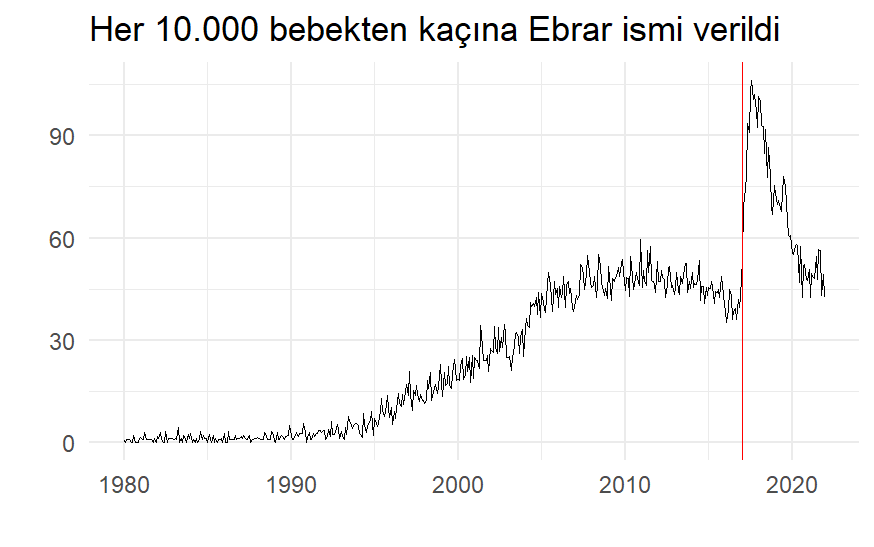
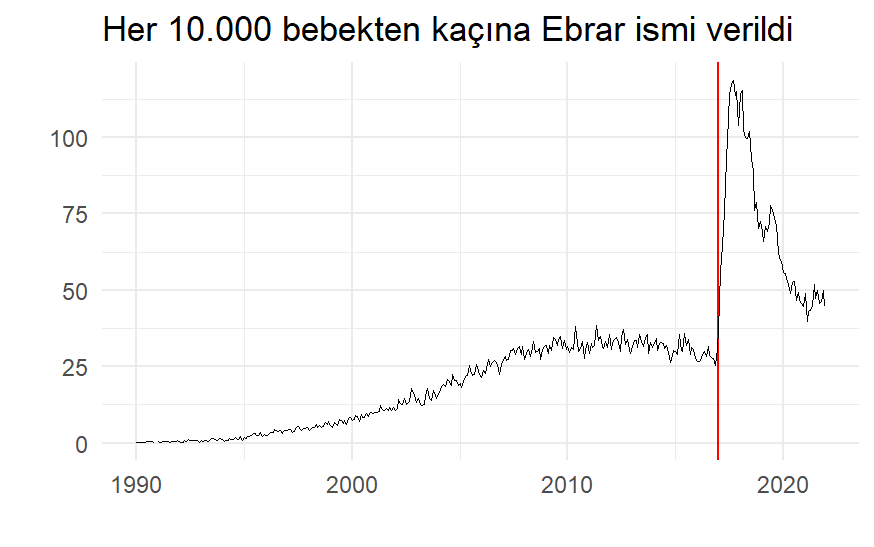
fix plots

diff --git a/isimler/ebrar/index.html b/isimler/ebrar/index.html
@@ -3,7 +3,7 @@ Ebrar, Nişanyan Adlar Sözlüğü&rsquo;ne göre anlamı Arapça&rsquo;da &ldqu
 <link rel=icon href=//www.herdagdelen.com/favicon.ico><link rel=icon type=image/png sizes=16x16 href=//www.herdagdelen.com/favicon-16x16.png><link rel=icon type=image/png sizes=32x32 href=//www.herdagdelen.com/favicon-32x32.png><link rel=apple-touch-icon href=//www.herdagdelen.com/apple-touch-icon.png><link rel=mask-icon href=//www.herdagdelen.com/safari-pinned-tab.svg><meta name=theme-color content="#2e2e33"><meta name=msapplication-TileColor content="#2e2e33"><noscript><style>#theme-toggle,.top-link{display:none}</style><style>@media(prefers-color-scheme:dark){:root{--theme:rgb(29, 30, 32);--entry:rgb(46, 46, 51);--primary:rgb(218, 218, 219);--secondary:rgb(155, 156, 157);--tertiary:rgb(65, 66, 68);--content:rgb(196, 196, 197);--hljs-bg:rgb(46, 46, 51);--code-bg:rgb(55, 56, 62);--border:rgb(51, 51, 51)}.list{background:var(--theme)}.list:not(.dark)::-webkit-scrollbar-track{background:0 0}.list:not(.dark)::-webkit-scrollbar-thumb{border-color:var(--theme)}}</style></noscript><script async src="https://www.googletagmanager.com/gtag/js?id=G-KNZ8N9W1RR"></script>
 <script>var doNotTrack=!1;if(!doNotTrack){window.dataLayer=window.dataLayer||[];function gtag(){dataLayer.push(arguments)}gtag("js",new Date),gtag("config","G-KNZ8N9W1RR",{anonymize_ip:!1})}</script><meta property="og:title" content="Ebrar"><meta property="og:description" content="Ebrar Karakurt, 2000 doğumlu ve Türkiye kadın millî voleybol takımı oyuncusu şampiyon bir sporcu. Ebrar&rsquo;ın ismi ilgimi çekti. Ebrar ismiyle ilgili neler bulabilirim, acaba 2017&rsquo;den beri Türk milli takımının Dünya ve Avrupa şampiyonluklarında pay sahibi olmuş Ebrar&rsquo;ın ismini yeni doğan bebeklerine verenler farkedilecek kadar çok mudur, cevaplamak istedim.
 Ebrar, Nişanyan Adlar Sözlüğü&rsquo;ne göre anlamı Arapça&rsquo;da &ldquo;iyilik edenler, hayırlılar&rdquo; olan, Kuran kaynaklı bir isim1. 2022 yılı verilerine göre bugüne kadar Türkiye&rsquo;de yaklaşık 100."><meta property="og:type" content="article"><meta property="og:url" content="//www.herdagdelen.com/isimler/ebrar/"><meta property="article:section" content="İsimler"><meta property="article:published_time" content="2023-09-02T22:15:58+03:00"><meta property="article:modified_time" content="2023-09-02T22:15:58+03:00"><meta property="og:site_name" content="Amaç Herdağdelen"><meta name=twitter:card content="summary"><meta name=twitter:title content="Ebrar"><meta name=twitter:description content="Ebrar Karakurt, 2000 doğumlu ve Türkiye kadın millî voleybol takımı oyuncusu şampiyon bir sporcu. Ebrar&rsquo;ın ismi ilgimi çekti. Ebrar ismiyle ilgili neler bulabilirim, acaba 2017&rsquo;den beri Türk milli takımının Dünya ve Avrupa şampiyonluklarında pay sahibi olmuş Ebrar&rsquo;ın ismini yeni doğan bebeklerine verenler farkedilecek kadar çok mudur, cevaplamak istedim.
-Ebrar, Nişanyan Adlar Sözlüğü&rsquo;ne göre anlamı Arapça&rsquo;da &ldquo;iyilik edenler, hayırlılar&rdquo; olan, Kuran kaynaklı bir isim1. 2022 yılı verilerine göre bugüne kadar Türkiye&rsquo;de yaklaşık 100."><script type=application/ld+json>{"@context":"https://schema.org","@type":"BreadcrumbList","itemListElement":[{"@type":"ListItem","position":2,"name":"İsimler","item":"//www.herdagdelen.com/isimler/"},{"@type":"ListItem","position":3,"name":"Ebrar","item":"//www.herdagdelen.com/isimler/ebrar/"}]}</script><script type=application/ld+json>{"@context":"https://schema.org","@type":"BlogPosting","headline":"Ebrar","name":"Ebrar","description":"Ebrar Karakurt, 2000 doğumlu ve Türkiye kadın millî voleybol takımı oyuncusu şampiyon bir sporcu. Ebrar\u0026rsquo;ın ismi ilgimi çekti. Ebrar ismiyle ilgili neler bulabilirim, acaba 2017\u0026rsquo;den beri Türk milli takımının Dünya ve Avrupa şampiyonluklarında pay sahibi olmuş Ebrar\u0026rsquo;ın ismini yeni doğan bebeklerine verenler farkedilecek kadar çok mudur, cevaplamak istedim.\nEbrar, Nişanyan Adlar Sözlüğü\u0026rsquo;ne göre anlamı Arapça\u0026rsquo;da \u0026ldquo;iyilik edenler, hayırlılar\u0026rdquo; olan, Kuran kaynaklı bir isim1. 2022 yılı verilerine göre bugüne kadar Türkiye\u0026rsquo;de yaklaşık 100.","keywords":[],"articleBody":"Ebrar Karakurt, 2000 doğumlu ve Türkiye kadın millî voleybol takımı oyuncusu şampiyon bir sporcu. Ebrar’ın ismi ilgimi çekti. Ebrar ismiyle ilgili neler bulabilirim, acaba 2017’den beri Türk milli takımının Dünya ve Avrupa şampiyonluklarında pay sahibi olmuş Ebrar’ın ismini yeni doğan bebeklerine verenler farkedilecek kadar çok mudur, cevaplamak istedim.\nEbrar, Nişanyan Adlar Sözlüğü’ne göre anlamı Arapça’da “iyilik edenler, hayırlılar” olan, Kuran kaynaklı bir isim1. 2022 yılı verilerine göre bugüne kadar Türkiye’de yaklaşık 100.000 bebeğe Ebrar ismi verilmiş. Bunların büyük bir kısmı kız bebekmiş. Yine Nişanyan’a göre Konya, nüfusa oranlı olarak görülme sıklığının en yüksek olduğu il.\nEbrar’ın 1980’lerde tek tük örneklerini gördüğümüz kullanımı 90’larda hız kazanmış ve 2000’lerde giderek artmış. 2007-2017 arası istikrarlı bir kullanım sıklığına kavuştuktan sonra 2017’de patlama yaparak yeni doğanlara en çok verilen isimler listesine 5. sıradan giriş yapmış2.\nAşağıdaki grafikte Ebrar isminin her 10.000 bebekte verilme sıklığını görüyoruz. Kırmızı çizgi Ocak 2017 tarihine denk düşüyor. Ebrar’ın kullanım sıklığı bir aydan diğerine neredeyse iki kat artmış.\nBöyle ani bir yükseliş bana Ebrar’ın 2017-2020 yılları arasında daha da popülerleşmesinde dış bir etkenin rol oynadığını düşündürttü. Bu etkenin ne olduğuna dair ilk ipucu Google Trends’den geldi: Ebrar’ın aranma sıklığına baktığımda Aralık 2016’da insanların Ebrar ismine ilgisinin artmaya başladığını gördüm.\nGoogle Trends, aynı tarihlerde “Ebrar Alya Demirbilek” aramalarının da popülerleştiğini gösterdi. Kısa bir araştırmayla gizem çözüldü: Aralık 2016’da yayına başlayan “Çocuktan Al Haberi” isimli programın çocuk oyuncularından birisi 2013 doğumlu Ebrar Alya Demirbilek’ti. Ebrar Alya’nın doğrudan ya da dolaylı olarak 2017-2020 yılları arasında 15.000’den fazla bebeğin ismine ilham verdiğini tahmin ediyorum.\nEbrar Alya etkisinin tesadüf olmadığına dair inancımı güçlendiren diğer bir gözlem Alya isminin de 2017’de benzer bir artış göstermesi.\nAncak veri Ebrar Alya etkisinin çok uzun süreli olmayacağını düşündürtüyor: 2020’ye geldiğimizde Ebrar isminin verilme sıklığı Çocuktan Al Haberi öncesi değerlerine dönmüş bile. Alya’da ise benzer bir düşüş gözlemiyoruz. Henüz Ebrar Karakurt’un bebek isimlerine farkedilir bir etkisi olmamış.\nhttps://www.nisanyanadlar.com/isim/ebrar ↩\nhttps://www.aa.com.tr/tr/turkiye/2017de-en-cok-tercih-edilen-cocuk-isimleri/1019125 ↩\n","wordCount":"309","inLanguage":"en","datePublished":"2023-09-02T22:15:58+03:00","dateModified":"2023-09-02T22:15:58+03:00","author":{"@type":"Person","name":"Amaç Herdağdelen"},"mainEntityOfPage":{"@type":"WebPage","@id":"//www.herdagdelen.com/isimler/ebrar/"},"publisher":{"@type":"Organization","name":"","logo":{"@type":"ImageObject","url":"//www.herdagdelen.com/favicon.ico"}}}</script><link rel=stylesheet href=https://cdnjs.cloudflare.com/ajax/libs/font-awesome/6.2.1/css/all.min.css integrity="sha512-MV7K8+y+gLIBoVD59lQIYicR65iaqukzvf/nwasF0nqhPay5w/9lJmVM2hMDcnK1OnMGCdVK+iQrJ7lzPJQd1w==" crossorigin=anonymous referrerpolicy=no-referrer></head><body id=top><script>localStorage.getItem("pref-theme")==="dark"?document.body.classList.add("dark"):localStorage.getItem("pref-theme")==="light"?document.body.classList.remove("dark"):window.matchMedia("(prefers-color-scheme: dark)").matches&&document.body.classList.add("dark")</script><header class=header><nav class=nav><div class=logo><div class=logo-switches><button id=theme-toggle accesskey=t title="(Alt + T)"><svg id="moon" xmlns="http://www.w3.org/2000/svg" width="24" height="18" viewBox="0 0 24 24" fill="none" stroke="currentcolor" stroke-width="2" stroke-linecap="round" stroke-linejoin="round"><path d="M21 12.79A9 9 0 1111.21 3 7 7 0 0021 12.79z"/></svg><svg id="sun" xmlns="http://www.w3.org/2000/svg" width="24" height="18" viewBox="0 0 24 24" fill="none" stroke="currentcolor" stroke-width="2" stroke-linecap="round" stroke-linejoin="round"><circle cx="12" cy="12" r="5"/><line x1="12" y1="1" x2="12" y2="3"/><line x1="12" y1="21" x2="12" y2="23"/><line x1="4.22" y1="4.22" x2="5.64" y2="5.64"/><line x1="18.36" y1="18.36" x2="19.78" y2="19.78"/><line x1="1" y1="12" x2="3" y2="12"/><line x1="21" y1="12" x2="23" y2="12"/><line x1="4.22" y1="19.78" x2="5.64" y2="18.36"/><line x1="18.36" y1="5.64" x2="19.78" y2="4.22"/></svg></button></div></div><ul id=menu><li><a href=//www.herdagdelen.com/ title=home><span>home</span></a></li><li><a href=//www.herdagdelen.com/isimler/ title=isimler><span>isimler</span></a></li></ul></nav></header><main class=main><article class=post-single><header class=post-header><div class=breadcrumbs><a href=//www.herdagdelen.com>Home</a>&nbsp;»&nbsp;<a href=//www.herdagdelen.com/isimler/>İsimler</a></div><h1 class=post-title>Ebrar</h1><div class=post-meta><span title='2023-09-02 22:15:58 +0300 +03'>September 2, 2023</span>&nbsp;·&nbsp;Amaç Herdağdelen</div></header><div class=post-content><p>Ebrar Karakurt, 2000 doğumlu ve Türkiye kadın millî voleybol takımı oyuncusu şampiyon bir sporcu. Ebrar&rsquo;ın ismi ilgimi çekti. Ebrar ismiyle ilgili neler bulabilirim, acaba 2017&rsquo;den beri Türk milli takımının Dünya ve Avrupa şampiyonluklarında pay sahibi olmuş Ebrar&rsquo;ın ismini yeni doğan bebeklerine verenler farkedilecek kadar çok mudur, cevaplamak istedim.</p><p>Ebrar, Nişanyan Adlar Sözlüğü&rsquo;ne göre anlamı Arapça&rsquo;da &ldquo;iyilik edenler, hayırlılar&rdquo; olan, Kuran kaynaklı bir isim<sup id=fnref:1><a href=#fn:1 class=footnote-ref role=doc-noteref>1</a></sup>. 2022 yılı verilerine göre bugüne kadar Türkiye&rsquo;de yaklaşık 100.000 bebeğe Ebrar ismi verilmiş. Bunların büyük bir kısmı kız bebekmiş. Yine Nişanyan&rsquo;a göre Konya, nüfusa oranlı olarak görülme sıklığının en yüksek olduğu il.</p><p>Ebrar&rsquo;ın 1980&rsquo;lerde tek tük örneklerini gördüğümüz kullanımı 90&rsquo;larda hız kazanmış ve 2000&rsquo;lerde giderek artmış. 2007-2017 arası istikrarlı bir kullanım sıklığına kavuştuktan sonra 2017&rsquo;de patlama yaparak yeni doğanlara en çok verilen isimler listesine 5. sıradan giriş yapmış<sup id=fnref:2><a href=#fn:2 class=footnote-ref role=doc-noteref>2</a></sup>.</p><p>Aşağıdaki grafikte Ebrar isminin her 10.000 bebekte verilme sıklığını görüyoruz. Kırmızı çizgi Ocak 2017 tarihine denk düşüyor. Ebrar&rsquo;ın kullanım sıklığı bir aydan diğerine neredeyse iki kat artmış.</p><p><img loading=lazy src=/images/ebrar1.png alt="Aylara göre Ebrar isminin yeni doğanlara verilme sıklığı"></p><p>Böyle ani bir yükseliş bana Ebrar&rsquo;ın 2017-2020 yılları arasında daha da popülerleşmesinde dış bir etkenin rol oynadığını düşündürttü. Bu etkenin ne olduğuna dair ilk ipucu Google Trends&rsquo;den geldi: Ebrar&rsquo;ın aranma sıklığına baktığımda Aralık 2016&rsquo;da insanların Ebrar ismine ilgisinin artmaya başladığını gördüm.</p><p><img loading=lazy src=/images/ebrar2.png alt="Alt text"></p><p>Google Trends, aynı tarihlerde &ldquo;Ebrar Alya Demirbilek&rdquo; aramalarının da popülerleştiğini gösterdi. Kısa bir araştırmayla gizem çözüldü: Aralık 2016&rsquo;da yayına başlayan &ldquo;Çocuktan Al Haberi&rdquo; isimli programın çocuk oyuncularından birisi 2013 doğumlu Ebrar Alya Demirbilek&rsquo;ti. Ebrar Alya&rsquo;nın doğrudan ya da dolaylı olarak 2017-2020 yılları arasında 15.000&rsquo;den fazla bebeğin ismine ilham verdiğini tahmin ediyorum.</p><p>Ebrar Alya etkisinin tesadüf olmadığına dair inancımı güçlendiren diğer bir gözlem Alya isminin de 2017&rsquo;de benzer bir artış göstermesi.</p><p><img loading=lazy src=/images/ebrar3.png alt="Alt text"></p><p>Ancak veri Ebrar Alya etkisinin çok uzun süreli olmayacağını düşündürtüyor: 2020&rsquo;ye geldiğimizde Ebrar isminin verilme sıklığı Çocuktan Al Haberi öncesi değerlerine dönmüş bile. Alya&rsquo;da ise benzer bir düşüş gözlemiyoruz. Henüz Ebrar Karakurt&rsquo;un bebek isimlerine farkedilir bir etkisi olmamış.</p><div class=footnotes role=doc-endnotes><hr><ol><li id=fn:1><p><a href=https://www.nisanyanadlar.com/isim/ebrar>https://www.nisanyanadlar.com/isim/ebrar</a>&#160;<a href=#fnref:1 class=footnote-backref role=doc-backlink>&#8617;&#xfe0e;</a></p></li><li id=fn:2><p><a href=https://www.aa.com.tr/tr/turkiye/2017de-en-cok-tercih-edilen-cocuk-isimleri/1019125>https://www.aa.com.tr/tr/turkiye/2017de-en-cok-tercih-edilen-cocuk-isimleri/1019125</a>&#160;<a href=#fnref:2 class=footnote-backref role=doc-backlink>&#8617;&#xfe0e;</a></p></li></ol></div></div><footer class=post-footer><ul class=post-tags></ul><div class=share-buttons><a target=_blank rel="noopener noreferrer" aria-label="share Ebrar on twitter" href="https://twitter.com/intent/tweet/?text=Ebrar&amp;url=%2f%2fwww.herdagdelen.com%2fisimler%2febrar%2f&amp;hashtags="><svg viewBox="0 0 512 512" height="30" width="30" fill="currentcolor"><path d="M449.446.0C483.971.0 512 28.03 512 62.554v386.892C512 483.97 483.97 512 449.446 512H62.554c-34.524.0-62.554-28.03-62.554-62.554V62.554c0-34.524 28.029-62.554 62.554-62.554h386.892zM195.519 424.544c135.939.0 210.268-112.643 210.268-210.268.0-3.218.0-6.437-.153-9.502 14.406-10.421 26.973-23.448 36.935-38.314-13.18 5.824-27.433 9.809-42.452 11.648 15.326-9.196 26.973-23.602 32.49-40.92-14.252 8.429-30.038 14.56-46.896 17.931-13.487-14.406-32.644-23.295-53.946-23.295-40.767.0-73.87 33.104-73.87 73.87.0 5.824.613 11.494 1.992 16.858-61.456-3.065-115.862-32.49-152.337-77.241-6.284 10.881-9.962 23.601-9.962 37.088.0 25.594 13.027 48.276 32.95 61.456-12.107-.307-23.448-3.678-33.41-9.196v.92c0 35.862 25.441 65.594 59.311 72.49-6.13 1.686-12.72 2.606-19.464 2.606-4.751.0-9.348-.46-13.946-1.38 9.349 29.426 36.628 50.728 68.965 51.341-25.287 19.771-57.164 31.571-91.8 31.571-5.977.0-11.801-.306-17.625-1.073 32.337 21.15 71.264 33.41 112.95 33.41z"/></svg></a><a target=_blank rel="noopener noreferrer" aria-label="share Ebrar on linkedin" href="https://www.linkedin.com/shareArticle?mini=true&amp;url=%2f%2fwww.herdagdelen.com%2fisimler%2febrar%2f&amp;title=Ebrar&amp;summary=Ebrar&amp;source=%2f%2fwww.herdagdelen.com%2fisimler%2febrar%2f"><svg viewBox="0 0 512 512" height="30" width="30" fill="currentcolor"><path d="M449.446.0C483.971.0 512 28.03 512 62.554v386.892C512 483.97 483.97 512 449.446 512H62.554c-34.524.0-62.554-28.03-62.554-62.554V62.554c0-34.524 28.029-62.554 62.554-62.554h386.892zM160.461 423.278V197.561h-75.04v225.717h75.04zm270.539.0V293.839c0-69.333-37.018-101.586-86.381-101.586-39.804.0-57.634 21.891-67.617 37.266v-31.958h-75.021c.995 21.181.0 225.717.0 225.717h75.02V297.222c0-6.748.486-13.492 2.474-18.315 5.414-13.475 17.767-27.434 38.494-27.434 27.135.0 38.007 20.707 38.007 51.037v120.768H431zM123.448 88.722C97.774 88.722 81 105.601 81 127.724c0 21.658 16.264 39.002 41.455 39.002h.484c26.165.0 42.452-17.344 42.452-39.002-.485-22.092-16.241-38.954-41.943-39.002z"/></svg></a><a target=_blank rel="noopener noreferrer" aria-label="share Ebrar on reddit" href="https://reddit.com/submit?url=%2f%2fwww.herdagdelen.com%2fisimler%2febrar%2f&title=Ebrar"><svg viewBox="0 0 512 512" height="30" width="30" fill="currentcolor"><path d="M449.446.0C483.971.0 512 28.03 512 62.554v386.892C512 483.97 483.97 512 449.446 512H62.554c-34.524.0-62.554-28.03-62.554-62.554V62.554c0-34.524 28.029-62.554 62.554-62.554h386.892zM446 265.638c0-22.964-18.616-41.58-41.58-41.58-11.211.0-21.361 4.457-28.841 11.666-28.424-20.508-67.586-33.757-111.204-35.278l18.941-89.121 61.884 13.157c.756 15.734 13.642 28.29 29.56 28.29 16.407.0 29.706-13.299 29.706-29.701.0-16.403-13.299-29.702-29.706-29.702-11.666.0-21.657 6.792-26.515 16.578l-69.105-14.69c-1.922-.418-3.939-.042-5.585 1.036-1.658 1.073-2.811 2.761-3.224 4.686l-21.152 99.438c-44.258 1.228-84.046 14.494-112.837 35.232-7.468-7.164-17.589-11.591-28.757-11.591-22.965.0-41.585 18.616-41.585 41.58.0 16.896 10.095 31.41 24.568 37.918-.639 4.135-.99 8.328-.99 12.576.0 63.977 74.469 115.836 166.33 115.836s166.334-51.859 166.334-115.836c0-4.218-.347-8.387-.977-12.493 14.564-6.47 24.735-21.034 24.735-38.001zM326.526 373.831c-20.27 20.241-59.115 21.816-70.534 21.816-11.428.0-50.277-1.575-70.522-21.82-3.007-3.008-3.007-7.882.0-10.889 3.003-2.999 7.882-3.003 10.885.0 12.777 12.781 40.11 17.317 59.637 17.317 19.522.0 46.86-4.536 59.657-17.321 3.016-2.999 7.886-2.995 10.885.008 3.008 3.011 3.003 7.882-.008 10.889zm-5.23-48.781c-16.373.0-29.701-13.324-29.701-29.698.0-16.381 13.328-29.714 29.701-29.714 16.378.0 29.706 13.333 29.706 29.714.0 16.374-13.328 29.698-29.706 29.698zM160.91 295.348c0-16.381 13.328-29.71 29.714-29.71 16.369.0 29.689 13.329 29.689 29.71.0 16.373-13.32 29.693-29.689 29.693-16.386.0-29.714-13.32-29.714-29.693z"/></svg></a><a target=_blank rel="noopener noreferrer" aria-label="share Ebrar on facebook" href="https://facebook.com/sharer/sharer.php?u=%2f%2fwww.herdagdelen.com%2fisimler%2febrar%2f"><svg viewBox="0 0 512 512" height="30" width="30" fill="currentcolor"><path d="M449.446.0C483.971.0 512 28.03 512 62.554v386.892C512 483.97 483.97 512 449.446 512H342.978V319.085h66.6l12.672-82.621h-79.272v-53.617c0-22.603 11.073-44.636 46.58-44.636H425.6v-70.34s-32.71-5.582-63.982-5.582c-65.288.0-107.96 39.569-107.96 111.204v62.971h-72.573v82.621h72.573V512h-191.104c-34.524.0-62.554-28.03-62.554-62.554V62.554c0-34.524 28.029-62.554 62.554-62.554h386.892z"/></svg></a><a target=_blank rel="noopener noreferrer" aria-label="share Ebrar on whatsapp" href="https://api.whatsapp.com/send?text=Ebrar%20-%20%2f%2fwww.herdagdelen.com%2fisimler%2febrar%2f"><svg viewBox="0 0 512 512" height="30" width="30" fill="currentcolor"><path d="M449.446.0C483.971.0 512 28.03 512 62.554v386.892C512 483.97 483.97 512 449.446 512H62.554c-34.524.0-62.554-28.03-62.554-62.554V62.554c0-34.524 28.029-62.554 62.554-62.554h386.892zm-58.673 127.703c-33.842-33.881-78.847-52.548-126.798-52.568-98.799.0-179.21 80.405-179.249 179.234-.013 31.593 8.241 62.428 23.927 89.612l-25.429 92.884 95.021-24.925c26.181 14.28 55.659 21.807 85.658 21.816h.074c98.789.0 179.206-80.413 179.247-179.243.018-47.895-18.61-92.93-52.451-126.81zM263.976 403.485h-.06c-26.734-.01-52.954-7.193-75.828-20.767l-5.441-3.229-56.386 14.792 15.05-54.977-3.542-5.637c-14.913-23.72-22.791-51.136-22.779-79.287.033-82.142 66.867-148.971 149.046-148.971 39.793.014 77.199 15.531 105.329 43.692 28.128 28.16 43.609 65.592 43.594 105.4-.034 82.149-66.866 148.983-148.983 148.984zm81.721-111.581c-4.479-2.242-26.499-13.075-30.604-14.571-4.105-1.495-7.091-2.241-10.077 2.241-2.986 4.483-11.569 14.572-14.182 17.562-2.612 2.988-5.225 3.364-9.703 1.12-4.479-2.241-18.91-6.97-36.017-22.23C231.8 264.15 222.81 249.484 220.198 245s-.279-6.908 1.963-9.14c2.016-2.007 4.48-5.232 6.719-7.847 2.24-2.615 2.986-4.484 4.479-7.472 1.493-2.99.747-5.604-.374-7.846-1.119-2.241-10.077-24.288-13.809-33.256-3.635-8.733-7.327-7.55-10.077-7.688-2.609-.13-5.598-.158-8.583-.158-2.986.0-7.839 1.121-11.944 5.604-4.105 4.484-15.675 15.32-15.675 37.364.0 22.046 16.048 43.342 18.287 46.332 2.24 2.99 31.582 48.227 76.511 67.627 10.685 4.615 19.028 7.371 25.533 9.434 10.728 3.41 20.492 2.929 28.209 1.775 8.605-1.285 26.499-10.833 30.231-21.295 3.732-10.464 3.732-19.431 2.612-21.298-1.119-1.869-4.105-2.99-8.583-5.232z"/></svg></a><a target=_blank rel="noopener noreferrer" aria-label="share Ebrar on telegram" href="https://telegram.me/share/url?text=Ebrar&amp;url=%2f%2fwww.herdagdelen.com%2fisimler%2febrar%2f"><svg viewBox="2 2 28 28" height="30" width="30" fill="currentcolor"><path d="M26.49 29.86H5.5a3.37 3.37.0 01-2.47-1 3.35 3.35.0 01-1-2.47V5.48A3.36 3.36.0 013 3 3.37 3.37.0 015.5 2h21A3.38 3.38.0 0129 3a3.36 3.36.0 011 2.46V26.37a3.35 3.35.0 01-1 2.47 3.38 3.38.0 01-2.51 1.02zm-5.38-6.71a.79.79.0 00.85-.66L24.73 9.24a.55.55.0 00-.18-.46.62.62.0 00-.41-.17q-.08.0-16.53 6.11a.59.59.0 00-.41.59.57.57.0 00.43.52l4 1.24 1.61 4.83a.62.62.0 00.63.43.56.56.0 00.4-.17L16.54 20l4.09 3A.9.9.0 0021.11 23.15zM13.8 20.71l-1.21-4q8.72-5.55 8.78-5.55c.15.0.23.0.23.16a.18.18.0 010 .06s-2.51 2.3-7.52 6.8z"/></svg></a><a target=_blank rel="noopener noreferrer" aria-label="share Ebrar on ycombinator" href="https://news.ycombinator.com/submitlink?t=Ebrar&u=%2f%2fwww.herdagdelen.com%2fisimler%2febrar%2f"><svg width="30" height="30" viewBox="0 0 512 512" fill="currentcolor" xmlns:inkscape="http://www.inkscape.org/namespaces/inkscape"><path d="M449.446.0C483.971.0 512 28.03 512 62.554V449.446C512 483.97 483.97 512 449.446 512H62.554C28.03 512 0 483.97.0 449.446V62.554C0 28.03 28.029.0 62.554.0H449.446zM183.8767 87.9921h-62.034L230.6673 292.4508V424.0079h50.6655V292.4508L390.1575 87.9921H328.1233L256 238.2489z"/></svg></a></div></footer></article></main><footer class=footer><span>&copy; 2023 <a href=//www.herdagdelen.com></a></span>
+Ebrar, Nişanyan Adlar Sözlüğü&rsquo;ne göre anlamı Arapça&rsquo;da &ldquo;iyilik edenler, hayırlılar&rdquo; olan, Kuran kaynaklı bir isim1. 2022 yılı verilerine göre bugüne kadar Türkiye&rsquo;de yaklaşık 100."><script type=application/ld+json>{"@context":"https://schema.org","@type":"BreadcrumbList","itemListElement":[{"@type":"ListItem","position":2,"name":"İsimler","item":"//www.herdagdelen.com/isimler/"},{"@type":"ListItem","position":3,"name":"Ebrar","item":"//www.herdagdelen.com/isimler/ebrar/"}]}</script><script type=application/ld+json>{"@context":"https://schema.org","@type":"BlogPosting","headline":"Ebrar","name":"Ebrar","description":"Ebrar Karakurt, 2000 doğumlu ve Türkiye kadın millî voleybol takımı oyuncusu şampiyon bir sporcu. Ebrar\u0026rsquo;ın ismi ilgimi çekti. Ebrar ismiyle ilgili neler bulabilirim, acaba 2017\u0026rsquo;den beri Türk milli takımının Dünya ve Avrupa şampiyonluklarında pay sahibi olmuş Ebrar\u0026rsquo;ın ismini yeni doğan bebeklerine verenler farkedilecek kadar çok mudur, cevaplamak istedim.\nEbrar, Nişanyan Adlar Sözlüğü\u0026rsquo;ne göre anlamı Arapça\u0026rsquo;da \u0026ldquo;iyilik edenler, hayırlılar\u0026rdquo; olan, Kuran kaynaklı bir isim1. 2022 yılı verilerine göre bugüne kadar Türkiye\u0026rsquo;de yaklaşık 100.","keywords":[],"articleBody":"Ebrar Karakurt, 2000 doğumlu ve Türkiye kadın millî voleybol takımı oyuncusu şampiyon bir sporcu. Ebrar’ın ismi ilgimi çekti. Ebrar ismiyle ilgili neler bulabilirim, acaba 2017’den beri Türk milli takımının Dünya ve Avrupa şampiyonluklarında pay sahibi olmuş Ebrar’ın ismini yeni doğan bebeklerine verenler farkedilecek kadar çok mudur, cevaplamak istedim.\nEbrar, Nişanyan Adlar Sözlüğü’ne göre anlamı Arapça’da “iyilik edenler, hayırlılar” olan, Kuran kaynaklı bir isim1. 2022 yılı verilerine göre bugüne kadar Türkiye’de yaklaşık 100.000 bebeğe Ebrar ismi verilmiş. Bunların büyük bir kısmı kız bebekmiş. Yine Nişanyan’a göre Konya, nüfusa oranlı olarak görülme sıklığının en yüksek olduğu il.\nEbrar’ın 1980’lerde tek tük örneklerini gördüğümüz kullanımı 90’larda hız kazanmış ve 2000’lerde giderek artmış. 2007-2017 arası istikrarlı bir kullanım sıklığına kavuştuktan sonra 2017’de patlama yaparak yeni doğanlara en çok verilen isimler listesine 5. sıradan giriş yapmış2.\nAşağıdaki grafikte Ebrar isminin her 10.000 bebekte verilme sıklığını görüyoruz. Kırmızı çizgi Ocak 2017 tarihine denk düşüyor. Ebrar’ın kullanım sıklığı bir aydan diğerine dört kattan fazla artmış.\nBöyle ani bir yükseliş bana Ebrar’ın 2017-2020 yılları arasında daha da popülerleşmesinde dış bir etkenin rol oynadığını düşündürttü. Bu etkenin ne olduğuna dair ilk ipucu Google Trends’den geldi: Ebrar’ın aranma sıklığına baktığımda Aralık 2016’da insanların Ebrar ismine ilgisinin artmaya başladığını gördüm.\nGoogle Trends, aynı tarihlerde “Ebrar Alya Demirbilek” aramalarının da popülerleştiğini gösterdi. Kısa bir araştırmayla gizem çözüldü: Aralık 2016’da yayına başlayan “Çocuktan Al Haberi” isimli programın çocuk oyuncularından birisi 2013 doğumlu Ebrar Alya Demirbilek’ti. Ebrar Alya’nın doğrudan ya da dolaylı olarak 2017-2020 yılları arasında 15.000’den fazla bebeğin ismine ilham verdiğini tahmin ediyorum.\nEbrar Alya etkisinin tesadüf olmadığına dair inancımı güçlendiren diğer bir gözlem Alya isminin de 2017’de benzer bir artış göstermesi.\nAncak veri Ebrar Alya etkisinin çok uzun süreli olmayacağını düşündürtüyor: 2020’ye geldiğimizde Ebrar isminin verilme sıklığı Çocuktan Al Haberi öncesi değerlerine yaklaşmış. Alya’da ise benzer bir düşüş gözlemiyoruz. Henüz Ebrar Karakurt’un bebek isimlerine farkedilir bir etkisi olmamış.\nhttps://www.nisanyanadlar.com/isim/ebrar ↩\nhttps://www.aa.com.tr/tr/turkiye/2017de-en-cok-tercih-edilen-cocuk-isimleri/1019125 ↩\n","wordCount":"308","inLanguage":"en","datePublished":"2023-09-02T22:15:58+03:00","dateModified":"2023-09-02T22:15:58+03:00","author":{"@type":"Person","name":"Amaç Herdağdelen"},"mainEntityOfPage":{"@type":"WebPage","@id":"//www.herdagdelen.com/isimler/ebrar/"},"publisher":{"@type":"Organization","name":"","logo":{"@type":"ImageObject","url":"//www.herdagdelen.com/favicon.ico"}}}</script><link rel=stylesheet href=https://cdnjs.cloudflare.com/ajax/libs/font-awesome/6.2.1/css/all.min.css integrity="sha512-MV7K8+y+gLIBoVD59lQIYicR65iaqukzvf/nwasF0nqhPay5w/9lJmVM2hMDcnK1OnMGCdVK+iQrJ7lzPJQd1w==" crossorigin=anonymous referrerpolicy=no-referrer></head><body id=top><script>localStorage.getItem("pref-theme")==="dark"?document.body.classList.add("dark"):localStorage.getItem("pref-theme")==="light"?document.body.classList.remove("dark"):window.matchMedia("(prefers-color-scheme: dark)").matches&&document.body.classList.add("dark")</script><header class=header><nav class=nav><div class=logo><div class=logo-switches><button id=theme-toggle accesskey=t title="(Alt + T)"><svg id="moon" xmlns="http://www.w3.org/2000/svg" width="24" height="18" viewBox="0 0 24 24" fill="none" stroke="currentcolor" stroke-width="2" stroke-linecap="round" stroke-linejoin="round"><path d="M21 12.79A9 9 0 1111.21 3 7 7 0 0021 12.79z"/></svg><svg id="sun" xmlns="http://www.w3.org/2000/svg" width="24" height="18" viewBox="0 0 24 24" fill="none" stroke="currentcolor" stroke-width="2" stroke-linecap="round" stroke-linejoin="round"><circle cx="12" cy="12" r="5"/><line x1="12" y1="1" x2="12" y2="3"/><line x1="12" y1="21" x2="12" y2="23"/><line x1="4.22" y1="4.22" x2="5.64" y2="5.64"/><line x1="18.36" y1="18.36" x2="19.78" y2="19.78"/><line x1="1" y1="12" x2="3" y2="12"/><line x1="21" y1="12" x2="23" y2="12"/><line x1="4.22" y1="19.78" x2="5.64" y2="18.36"/><line x1="18.36" y1="5.64" x2="19.78" y2="4.22"/></svg></button></div></div><ul id=menu><li><a href=//www.herdagdelen.com/ title=home><span>home</span></a></li><li><a href=//www.herdagdelen.com/isimler/ title=isimler><span>isimler</span></a></li></ul></nav></header><main class=main><article class=post-single><header class=post-header><div class=breadcrumbs><a href=//www.herdagdelen.com>Home</a>&nbsp;»&nbsp;<a href=//www.herdagdelen.com/isimler/>İsimler</a></div><h1 class=post-title>Ebrar</h1><div class=post-meta><span title='2023-09-02 22:15:58 +0300 +03'>September 2, 2023</span>&nbsp;·&nbsp;Amaç Herdağdelen</div></header><div class=post-content><p>Ebrar Karakurt, 2000 doğumlu ve Türkiye kadın millî voleybol takımı oyuncusu şampiyon bir sporcu. Ebrar&rsquo;ın ismi ilgimi çekti. Ebrar ismiyle ilgili neler bulabilirim, acaba 2017&rsquo;den beri Türk milli takımının Dünya ve Avrupa şampiyonluklarında pay sahibi olmuş Ebrar&rsquo;ın ismini yeni doğan bebeklerine verenler farkedilecek kadar çok mudur, cevaplamak istedim.</p><p>Ebrar, Nişanyan Adlar Sözlüğü&rsquo;ne göre anlamı Arapça&rsquo;da &ldquo;iyilik edenler, hayırlılar&rdquo; olan, Kuran kaynaklı bir isim<sup id=fnref:1><a href=#fn:1 class=footnote-ref role=doc-noteref>1</a></sup>. 2022 yılı verilerine göre bugüne kadar Türkiye&rsquo;de yaklaşık 100.000 bebeğe Ebrar ismi verilmiş. Bunların büyük bir kısmı kız bebekmiş. Yine Nişanyan&rsquo;a göre Konya, nüfusa oranlı olarak görülme sıklığının en yüksek olduğu il.</p><p>Ebrar&rsquo;ın 1980&rsquo;lerde tek tük örneklerini gördüğümüz kullanımı 90&rsquo;larda hız kazanmış ve 2000&rsquo;lerde giderek artmış. 2007-2017 arası istikrarlı bir kullanım sıklığına kavuştuktan sonra 2017&rsquo;de patlama yaparak yeni doğanlara en çok verilen isimler listesine 5. sıradan giriş yapmış<sup id=fnref:2><a href=#fn:2 class=footnote-ref role=doc-noteref>2</a></sup>.</p><p>Aşağıdaki grafikte Ebrar isminin her 10.000 bebekte verilme sıklığını görüyoruz. Kırmızı çizgi Ocak 2017 tarihine denk düşüyor. Ebrar&rsquo;ın kullanım sıklığı bir aydan diğerine dört kattan fazla artmış.</p><p><img loading=lazy src=/images/ebrar1.png alt="Aylara göre Ebrar isminin yeni doğanlara verilme sıklığı"></p><p>Böyle ani bir yükseliş bana Ebrar&rsquo;ın 2017-2020 yılları arasında daha da popülerleşmesinde dış bir etkenin rol oynadığını düşündürttü. Bu etkenin ne olduğuna dair ilk ipucu Google Trends&rsquo;den geldi: Ebrar&rsquo;ın aranma sıklığına baktığımda Aralık 2016&rsquo;da insanların Ebrar ismine ilgisinin artmaya başladığını gördüm.</p><p><img loading=lazy src=/images/ebrar2.png alt="Alt text"></p><p>Google Trends, aynı tarihlerde &ldquo;Ebrar Alya Demirbilek&rdquo; aramalarının da popülerleştiğini gösterdi. Kısa bir araştırmayla gizem çözüldü: Aralık 2016&rsquo;da yayına başlayan &ldquo;Çocuktan Al Haberi&rdquo; isimli programın çocuk oyuncularından birisi 2013 doğumlu Ebrar Alya Demirbilek&rsquo;ti. Ebrar Alya&rsquo;nın doğrudan ya da dolaylı olarak 2017-2020 yılları arasında 15.000&rsquo;den fazla bebeğin ismine ilham verdiğini tahmin ediyorum.</p><p>Ebrar Alya etkisinin tesadüf olmadığına dair inancımı güçlendiren diğer bir gözlem Alya isminin de 2017&rsquo;de benzer bir artış göstermesi.</p><p><img loading=lazy src=/images/ebrar3.png alt="Alt text"></p><p>Ancak veri Ebrar Alya etkisinin çok uzun süreli olmayacağını düşündürtüyor: 2020&rsquo;ye geldiğimizde Ebrar isminin verilme sıklığı Çocuktan Al Haberi öncesi değerlerine yaklaşmış. Alya&rsquo;da ise benzer bir düşüş gözlemiyoruz. Henüz Ebrar Karakurt&rsquo;un bebek isimlerine farkedilir bir etkisi olmamış.</p><div class=footnotes role=doc-endnotes><hr><ol><li id=fn:1><p><a href=https://www.nisanyanadlar.com/isim/ebrar>https://www.nisanyanadlar.com/isim/ebrar</a>&#160;<a href=#fnref:1 class=footnote-backref role=doc-backlink>&#8617;&#xfe0e;</a></p></li><li id=fn:2><p><a href=https://www.aa.com.tr/tr/turkiye/2017de-en-cok-tercih-edilen-cocuk-isimleri/1019125>https://www.aa.com.tr/tr/turkiye/2017de-en-cok-tercih-edilen-cocuk-isimleri/1019125</a>&#160;<a href=#fnref:2 class=footnote-backref role=doc-backlink>&#8617;&#xfe0e;</a></p></li></ol></div></div><footer class=post-footer><ul class=post-tags></ul><div class=share-buttons><a target=_blank rel="noopener noreferrer" aria-label="share Ebrar on twitter" href="https://twitter.com/intent/tweet/?text=Ebrar&amp;url=%2f%2fwww.herdagdelen.com%2fisimler%2febrar%2f&amp;hashtags="><svg viewBox="0 0 512 512" height="30" width="30" fill="currentcolor"><path d="M449.446.0C483.971.0 512 28.03 512 62.554v386.892C512 483.97 483.97 512 449.446 512H62.554c-34.524.0-62.554-28.03-62.554-62.554V62.554c0-34.524 28.029-62.554 62.554-62.554h386.892zM195.519 424.544c135.939.0 210.268-112.643 210.268-210.268.0-3.218.0-6.437-.153-9.502 14.406-10.421 26.973-23.448 36.935-38.314-13.18 5.824-27.433 9.809-42.452 11.648 15.326-9.196 26.973-23.602 32.49-40.92-14.252 8.429-30.038 14.56-46.896 17.931-13.487-14.406-32.644-23.295-53.946-23.295-40.767.0-73.87 33.104-73.87 73.87.0 5.824.613 11.494 1.992 16.858-61.456-3.065-115.862-32.49-152.337-77.241-6.284 10.881-9.962 23.601-9.962 37.088.0 25.594 13.027 48.276 32.95 61.456-12.107-.307-23.448-3.678-33.41-9.196v.92c0 35.862 25.441 65.594 59.311 72.49-6.13 1.686-12.72 2.606-19.464 2.606-4.751.0-9.348-.46-13.946-1.38 9.349 29.426 36.628 50.728 68.965 51.341-25.287 19.771-57.164 31.571-91.8 31.571-5.977.0-11.801-.306-17.625-1.073 32.337 21.15 71.264 33.41 112.95 33.41z"/></svg></a><a target=_blank rel="noopener noreferrer" aria-label="share Ebrar on linkedin" href="https://www.linkedin.com/shareArticle?mini=true&amp;url=%2f%2fwww.herdagdelen.com%2fisimler%2febrar%2f&amp;title=Ebrar&amp;summary=Ebrar&amp;source=%2f%2fwww.herdagdelen.com%2fisimler%2febrar%2f"><svg viewBox="0 0 512 512" height="30" width="30" fill="currentcolor"><path d="M449.446.0C483.971.0 512 28.03 512 62.554v386.892C512 483.97 483.97 512 449.446 512H62.554c-34.524.0-62.554-28.03-62.554-62.554V62.554c0-34.524 28.029-62.554 62.554-62.554h386.892zM160.461 423.278V197.561h-75.04v225.717h75.04zm270.539.0V293.839c0-69.333-37.018-101.586-86.381-101.586-39.804.0-57.634 21.891-67.617 37.266v-31.958h-75.021c.995 21.181.0 225.717.0 225.717h75.02V297.222c0-6.748.486-13.492 2.474-18.315 5.414-13.475 17.767-27.434 38.494-27.434 27.135.0 38.007 20.707 38.007 51.037v120.768H431zM123.448 88.722C97.774 88.722 81 105.601 81 127.724c0 21.658 16.264 39.002 41.455 39.002h.484c26.165.0 42.452-17.344 42.452-39.002-.485-22.092-16.241-38.954-41.943-39.002z"/></svg></a><a target=_blank rel="noopener noreferrer" aria-label="share Ebrar on reddit" href="https://reddit.com/submit?url=%2f%2fwww.herdagdelen.com%2fisimler%2febrar%2f&title=Ebrar"><svg viewBox="0 0 512 512" height="30" width="30" fill="currentcolor"><path d="M449.446.0C483.971.0 512 28.03 512 62.554v386.892C512 483.97 483.97 512 449.446 512H62.554c-34.524.0-62.554-28.03-62.554-62.554V62.554c0-34.524 28.029-62.554 62.554-62.554h386.892zM446 265.638c0-22.964-18.616-41.58-41.58-41.58-11.211.0-21.361 4.457-28.841 11.666-28.424-20.508-67.586-33.757-111.204-35.278l18.941-89.121 61.884 13.157c.756 15.734 13.642 28.29 29.56 28.29 16.407.0 29.706-13.299 29.706-29.701.0-16.403-13.299-29.702-29.706-29.702-11.666.0-21.657 6.792-26.515 16.578l-69.105-14.69c-1.922-.418-3.939-.042-5.585 1.036-1.658 1.073-2.811 2.761-3.224 4.686l-21.152 99.438c-44.258 1.228-84.046 14.494-112.837 35.232-7.468-7.164-17.589-11.591-28.757-11.591-22.965.0-41.585 18.616-41.585 41.58.0 16.896 10.095 31.41 24.568 37.918-.639 4.135-.99 8.328-.99 12.576.0 63.977 74.469 115.836 166.33 115.836s166.334-51.859 166.334-115.836c0-4.218-.347-8.387-.977-12.493 14.564-6.47 24.735-21.034 24.735-38.001zM326.526 373.831c-20.27 20.241-59.115 21.816-70.534 21.816-11.428.0-50.277-1.575-70.522-21.82-3.007-3.008-3.007-7.882.0-10.889 3.003-2.999 7.882-3.003 10.885.0 12.777 12.781 40.11 17.317 59.637 17.317 19.522.0 46.86-4.536 59.657-17.321 3.016-2.999 7.886-2.995 10.885.008 3.008 3.011 3.003 7.882-.008 10.889zm-5.23-48.781c-16.373.0-29.701-13.324-29.701-29.698.0-16.381 13.328-29.714 29.701-29.714 16.378.0 29.706 13.333 29.706 29.714.0 16.374-13.328 29.698-29.706 29.698zM160.91 295.348c0-16.381 13.328-29.71 29.714-29.71 16.369.0 29.689 13.329 29.689 29.71.0 16.373-13.32 29.693-29.689 29.693-16.386.0-29.714-13.32-29.714-29.693z"/></svg></a><a target=_blank rel="noopener noreferrer" aria-label="share Ebrar on facebook" href="https://facebook.com/sharer/sharer.php?u=%2f%2fwww.herdagdelen.com%2fisimler%2febrar%2f"><svg viewBox="0 0 512 512" height="30" width="30" fill="currentcolor"><path d="M449.446.0C483.971.0 512 28.03 512 62.554v386.892C512 483.97 483.97 512 449.446 512H342.978V319.085h66.6l12.672-82.621h-79.272v-53.617c0-22.603 11.073-44.636 46.58-44.636H425.6v-70.34s-32.71-5.582-63.982-5.582c-65.288.0-107.96 39.569-107.96 111.204v62.971h-72.573v82.621h72.573V512h-191.104c-34.524.0-62.554-28.03-62.554-62.554V62.554c0-34.524 28.029-62.554 62.554-62.554h386.892z"/></svg></a><a target=_blank rel="noopener noreferrer" aria-label="share Ebrar on whatsapp" href="https://api.whatsapp.com/send?text=Ebrar%20-%20%2f%2fwww.herdagdelen.com%2fisimler%2febrar%2f"><svg viewBox="0 0 512 512" height="30" width="30" fill="currentcolor"><path d="M449.446.0C483.971.0 512 28.03 512 62.554v386.892C512 483.97 483.97 512 449.446 512H62.554c-34.524.0-62.554-28.03-62.554-62.554V62.554c0-34.524 28.029-62.554 62.554-62.554h386.892zm-58.673 127.703c-33.842-33.881-78.847-52.548-126.798-52.568-98.799.0-179.21 80.405-179.249 179.234-.013 31.593 8.241 62.428 23.927 89.612l-25.429 92.884 95.021-24.925c26.181 14.28 55.659 21.807 85.658 21.816h.074c98.789.0 179.206-80.413 179.247-179.243.018-47.895-18.61-92.93-52.451-126.81zM263.976 403.485h-.06c-26.734-.01-52.954-7.193-75.828-20.767l-5.441-3.229-56.386 14.792 15.05-54.977-3.542-5.637c-14.913-23.72-22.791-51.136-22.779-79.287.033-82.142 66.867-148.971 149.046-148.971 39.793.014 77.199 15.531 105.329 43.692 28.128 28.16 43.609 65.592 43.594 105.4-.034 82.149-66.866 148.983-148.983 148.984zm81.721-111.581c-4.479-2.242-26.499-13.075-30.604-14.571-4.105-1.495-7.091-2.241-10.077 2.241-2.986 4.483-11.569 14.572-14.182 17.562-2.612 2.988-5.225 3.364-9.703 1.12-4.479-2.241-18.91-6.97-36.017-22.23C231.8 264.15 222.81 249.484 220.198 245s-.279-6.908 1.963-9.14c2.016-2.007 4.48-5.232 6.719-7.847 2.24-2.615 2.986-4.484 4.479-7.472 1.493-2.99.747-5.604-.374-7.846-1.119-2.241-10.077-24.288-13.809-33.256-3.635-8.733-7.327-7.55-10.077-7.688-2.609-.13-5.598-.158-8.583-.158-2.986.0-7.839 1.121-11.944 5.604-4.105 4.484-15.675 15.32-15.675 37.364.0 22.046 16.048 43.342 18.287 46.332 2.24 2.99 31.582 48.227 76.511 67.627 10.685 4.615 19.028 7.371 25.533 9.434 10.728 3.41 20.492 2.929 28.209 1.775 8.605-1.285 26.499-10.833 30.231-21.295 3.732-10.464 3.732-19.431 2.612-21.298-1.119-1.869-4.105-2.99-8.583-5.232z"/></svg></a><a target=_blank rel="noopener noreferrer" aria-label="share Ebrar on telegram" href="https://telegram.me/share/url?text=Ebrar&amp;url=%2f%2fwww.herdagdelen.com%2fisimler%2febrar%2f"><svg viewBox="2 2 28 28" height="30" width="30" fill="currentcolor"><path d="M26.49 29.86H5.5a3.37 3.37.0 01-2.47-1 3.35 3.35.0 01-1-2.47V5.48A3.36 3.36.0 013 3 3.37 3.37.0 015.5 2h21A3.38 3.38.0 0129 3a3.36 3.36.0 011 2.46V26.37a3.35 3.35.0 01-1 2.47 3.38 3.38.0 01-2.51 1.02zm-5.38-6.71a.79.79.0 00.85-.66L24.73 9.24a.55.55.0 00-.18-.46.62.62.0 00-.41-.17q-.08.0-16.53 6.11a.59.59.0 00-.41.59.57.57.0 00.43.52l4 1.24 1.61 4.83a.62.62.0 00.63.43.56.56.0 00.4-.17L16.54 20l4.09 3A.9.9.0 0021.11 23.15zM13.8 20.71l-1.21-4q8.72-5.55 8.78-5.55c.15.0.23.0.23.16a.18.18.0 010 .06s-2.51 2.3-7.52 6.8z"/></svg></a><a target=_blank rel="noopener noreferrer" aria-label="share Ebrar on ycombinator" href="https://news.ycombinator.com/submitlink?t=Ebrar&u=%2f%2fwww.herdagdelen.com%2fisimler%2febrar%2f"><svg width="30" height="30" viewBox="0 0 512 512" fill="currentcolor" xmlns:inkscape="http://www.inkscape.org/namespaces/inkscape"><path d="M449.446.0C483.971.0 512 28.03 512 62.554V449.446C512 483.97 483.97 512 449.446 512H62.554C28.03 512 0 483.97.0 449.446V62.554C0 28.03 28.029.0 62.554.0H449.446zM183.8767 87.9921h-62.034L230.6673 292.4508V424.0079h50.6655V292.4508L390.1575 87.9921H328.1233L256 238.2489z"/></svg></a></div></footer></article></main><footer class=footer><span>&copy; 2023 <a href=//www.herdagdelen.com></a></span>
 <span>Powered by
 <a href=https://gohugo.io/ rel="noopener noreferrer" target=_blank>Hugo</a> &
         <a href=https://github.com/adityatelange/hugo-PaperMod/ rel=noopener target=_blank>PaperMod</a></span></footer><a href=#top aria-label="go to top" title="Go to Top (Alt + G)" class=top-link id=top-link accesskey=g><svg xmlns="http://www.w3.org/2000/svg" viewBox="0 0 12 6" fill="currentcolor"><path d="M12 6H0l6-6z"/></svg></a><script>let menu=document.getElementById("menu");menu&&(menu.scrollLeft=localStorage.getItem("menu-scroll-position"),menu.onscroll=function(){localStorage.setItem("menu-scroll-position",menu.scrollLeft)}),document.querySelectorAll('a[href^="#"]').forEach(e=>{e.addEventListener("click",function(e){e.preventDefault();var t=this.getAttribute("href").substr(1);window.matchMedia("(prefers-reduced-motion: reduce)").matches?document.querySelector(`[id='${decodeURIComponent(t)}']`).scrollIntoView():document.querySelector(`[id='${decodeURIComponent(t)}']`).scrollIntoView({behavior:"smooth"}),t==="top"?history.replaceState(null,null," "):history.pushState(null,null,`#${t}`)})})</script><script>var mybutton=document.getElementById("top-link");window.onscroll=function(){document.body.scrollTop>800||document.documentElement.scrollTop>800?(mybutton.style.visibility="visible",mybutton.style.opacity="1"):(mybutton.style.visibility="hidden",mybutton.style.opacity="0")}</script><script>document.getElementById("theme-toggle").addEventListener("click",()=>{document.body.className.includes("dark")?(document.body.classList.remove("dark"),localStorage.setItem("pref-theme","light")):(document.body.classList.add("dark"),localStorage.setItem("pref-theme","dark"))})</script></body></html>
